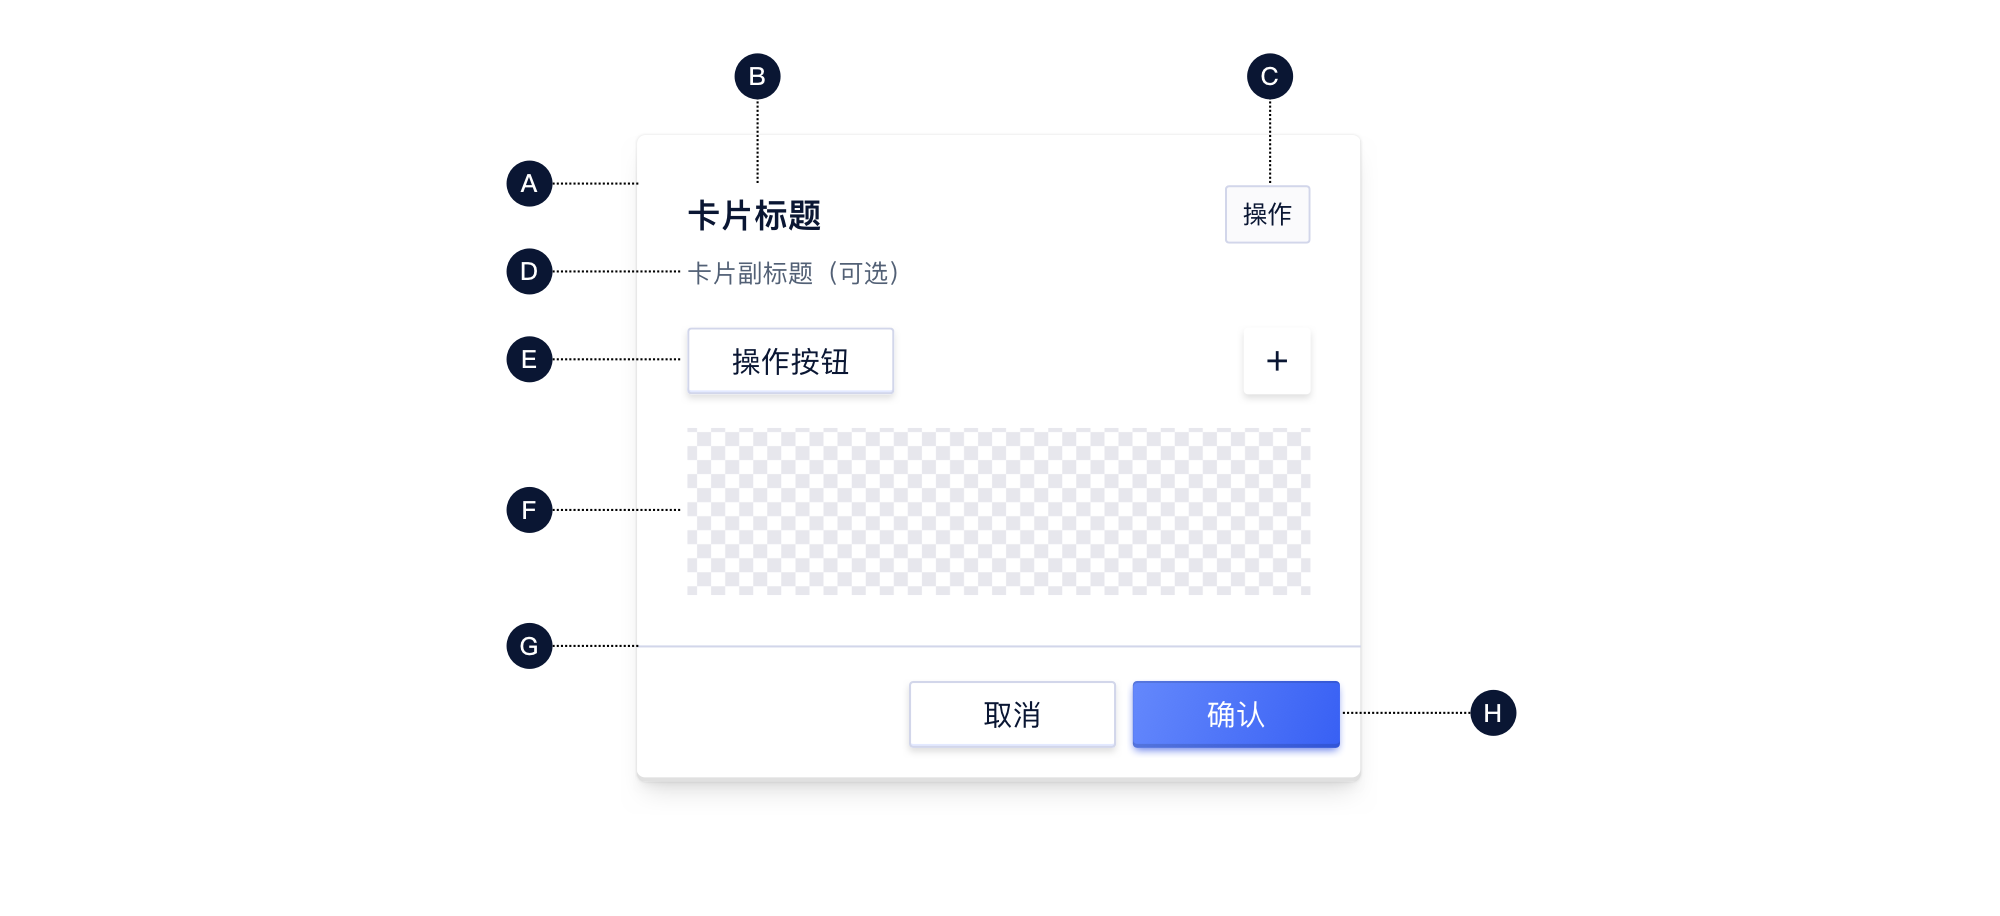
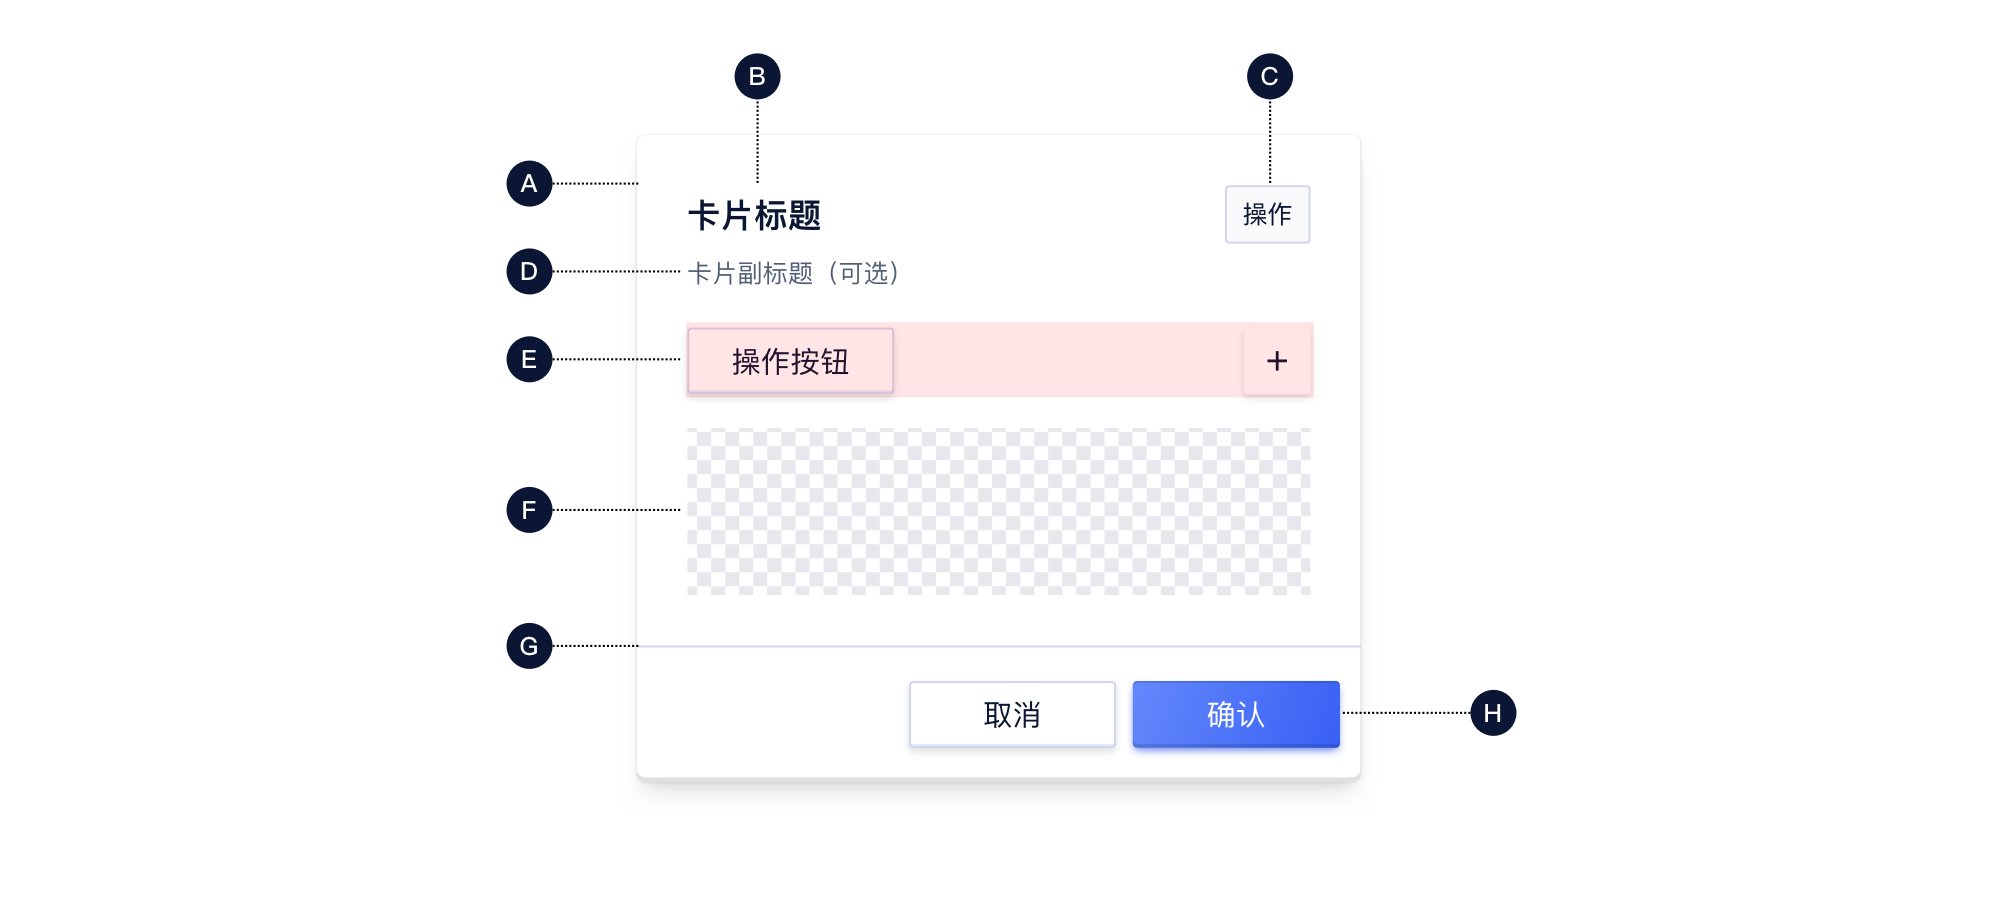
card修改

Changed region(s): [[0.341, 0.3362, 0.682, 0.4585]]

diff --git a/content/component/list/Card/index.md b/content/component/list/Card/index.md
@@ -24,9 +24,9 @@ description: "卡片，聚合同类信息的容器。"
 
 ![](../../../images/Card/构成.png)
 
-| 类型 | 容器（A） | 标题（B） | 操作区（C） | 副标题（D） | 操作按钮（E） | 内容区域（F） | 分割线（G） | 底部按钮（H） |
-| :--: | :-------: | :-------: | :---------: | :---------: | :-----------: | :-----------: | :---------: | :-----------: |
-| 常规 |     √     |   可选    |    可选     |    可选     |     可选      |       √       |    可选     |     可选      |
+| 类型 | 容器（A） | 标题（B） | 操作按钮（C） | 副标题（D） | 操作区域（E） | 内容区域（F） | 分割线（G） | 底部按钮（H） |
+| :--: | :-------: | :-------: | :-----------: | :---------: | :-----------: | :-----------: | :---------: | :-----------: |
+| 常规 |     √     |   可选    |     可选      |    可选     |     可选      |       √       |    可选     |     可选      |
 
 
 
@@ -41,7 +41,7 @@ description: "卡片，聚合同类信息的容器。"
 - 不允许折行，可根据业务增加标签
 - 可搭配选项卡使用
 
-##### C. 操作区 `可选`
+##### C. 操作按钮 `可选`
 
 - 一般只有一个操作项，如修改配置、单选按钮等
 
@@ -50,7 +50,7 @@ description: "卡片，聚合同类信息的容器。"
 
 - 一般作为解释说明文字出现
 
-##### E. 操作按钮 `可选`
+##### E. 操作区域 `可选`
 
 - 可作为创建、开启、刷新等操作按钮，可对卡片内容做操作或打开新页面跳转
 
@@ -110,7 +110,7 @@ description: "卡片，聚合同类信息的容器。"
 
 **多个卡片不可进行嵌套**
 
-卡片作为一个容器，承载各类对象，在使用时为防止其过于复杂，建议卡片不进行嵌套。[常见问题>](### 卡片作为独立个体)
+卡片作为一个容器，承载各类对象，在使用时为防止其过于复杂，建议卡片不进行嵌套。[常见问题>](http://10.179.234.214:8000/component/Card/#%E5%8D%A1%E7%89%87%E4%BD%9C%E4%B8%BA%E7%8B%AC%E7%AB%8B%E4%B8%AA%E4%BD%93)
 
 #### 2.反馈
 
